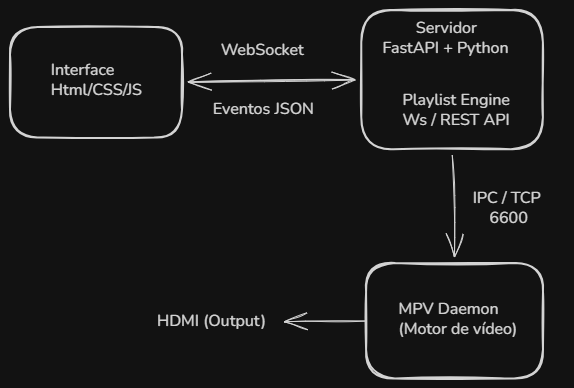
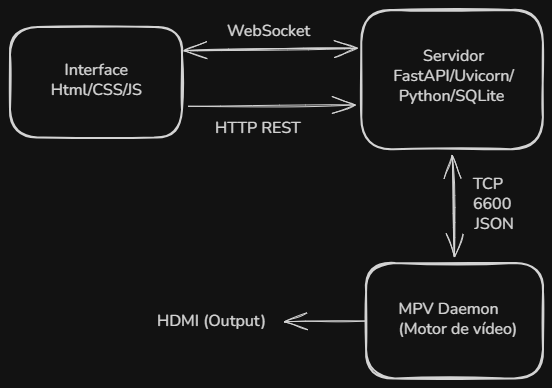
inputs

diff --git a/frontend/components/capture.js b/frontend/components/capture.js
@@ -1,0 +1,76 @@
+(() => {
+  const modal      = document.getElementById("capture-modal");
+  const btnOpen    = document.getElementById("btn-capture-open");
+  const btnClose   = document.getElementById("capture-modal-close");
+  const btnCancel  = document.getElementById("btn-capture-cancel");
+  const btnAdd     = document.getElementById("btn-capture-add");
+  const deviceList = document.getElementById("capture-device-list");
+
+  let selectedDevice = null;
+
+  function openModal() {
+    selectedDevice = null;
+    btnAdd.disabled = true;
+    modal.style.display = "flex";
+    loadDevices();
+  }
+
+  function closeModal() {
+    modal.style.display = "none";
+    selectedDevice = null;
+    btnAdd.disabled = true;
+  }
+
+  async function loadDevices() {
+    deviceList.innerHTML = '<span class="yt-status yt-status-loading">Carregando dispositivos…</span>';
+    try {
+      const res = await fetch("/api/capture-devices");
+      const data = await res.json();
+      renderDevices(data.devices || []);
+    } catch {
+      deviceList.innerHTML = '<span class="yt-status yt-status-error">Erro ao listar dispositivos.</span>';
+    }
+  }
+
+  function renderDevices(devices) {
+    if (!devices.length) {
+      deviceList.innerHTML = '<span class="yt-status yt-status-error">Nenhum dispositivo encontrado.</span>';
+      return;
+    }
+    deviceList.innerHTML = "";
+    devices.forEach(name => {
+      const item = document.createElement("div");
+      item.className = "capture-device-item";
+      item.innerHTML = `<span class="capture-device-icon">📷</span><span>${name}</span>`;
+      item.addEventListener("click", () => {
+        document.querySelectorAll(".capture-device-item").forEach(el => el.classList.remove("selected"));
+        item.classList.add("selected");
+        selectedDevice = name;
+        btnAdd.disabled = false;
+      });
+      deviceList.appendChild(item);
+    });
+  }
+
+  function addToSchedule() {
+    if (!selectedDevice) return;
+    const newItem = {
+      id: "item-" + Date.now(),
+      type: "capture",
+      live: true,
+      title: selectedDevice,
+      path: "av://dshow:video=" + selectedDevice,
+      duration: 0,
+    };
+    state.schedule.push(newItem);
+    renderSchedule();
+    syncOrderToServer();
+    closeModal();
+  }
+
+  btnOpen.addEventListener("click", openModal);
+  btnClose.addEventListener("click", closeModal);
+  btnCancel.addEventListener("click", closeModal);
+  btnAdd.addEventListener("click", addToSchedule);
+  modal.addEventListener("click", e => { if (e.target === modal) closeModal(); });
+})();

diff --git a/frontend/index.html b/frontend/index.html
@@ -282,6 +282,15 @@
         <div class="log" id="log"></div>
       </section>
 
+      <section class="card capture-card" id="capture-card">
+        <div class="log-header">
+          <h2>Entrada de Vídeo</h2>
+          <div class="log-actions">
+            <button id="btn-capture-open">+ Adicionar</button>
+          </div>
+        </div>
+      </section>
+
       <section class="card youtube-card" id="youtube-live-card">
         <div class="log-header">
           <h2>Vídeo/Live do Youtube</h2>
@@ -292,6 +301,28 @@
       </section>
     </div>
   </main>
+
+  <!-- Modal Entrada de Vídeo (placa de captura / webcam) -->
+  <div id="capture-modal" class="yt-modal-backdrop" style="display:none">
+    <div class="yt-modal-box">
+      <div class="yt-modal-header">
+        <h3>Entrada de Vídeo</h3>
+        <button id="capture-modal-close" class="yt-modal-close">✕</button>
+      </div>
+      <div class="yt-modal-body">
+        <div class="yt-field">
+          <label class="yt-label">Dispositivo disponível</label>
+          <div id="capture-device-list" class="capture-device-list">
+            <span class="yt-status yt-status-loading">Carregando dispositivos…</span>
+          </div>
+        </div>
+      </div>
+      <div class="yt-modal-actions">
+        <button id="btn-capture-cancel" class="yt-btn-cancel">Cancelar</button>
+        <button id="btn-capture-add" class="btn-yt-add" disabled>Adicionar ao roteiro</button>
+      </div>
+    </div>
+  </div>
 
   <!-- Modal YouTube Live -->
   <div id="yt-modal" class="yt-modal-backdrop" style="display:none">
@@ -421,6 +452,7 @@
   <script src="/static/app.js"></script>
   <script src="/static/components/preview_ws.js"></script>
   <script src="/static/components/youtube_live.js"></script>
+  <script src="/static/components/capture.js"></script>
   <!-- Preview de live do YouTube -->
   <div id="yt-preview-modal" style="display:none">
     <div class="yt-preview-header">

diff --git a/frontend/styles/log.css b/frontend/styles/log.css
@@ -7,13 +7,57 @@
 }
 
 .bottom-row .log-card,
+.capture-card,
 .youtube-card {
   flex: 1;
   min-width: 0;
 }
 
-/* YouTube card — sempre compacto (só header, igual ao log colapsado) */
+/* Capture / YouTube cards — sempre compactos (só header) */
+.capture-card .log-header,
 .youtube-card .log-header { margin-bottom: 0; }
+
+#btn-capture-open {
+  padding: 4px 12px;
+  border: 1px solid var(--border);
+  border-radius: 6px;
+  background: transparent;
+  color: var(--muted);
+  cursor: pointer;
+  font-size: 12px;
+}
+#btn-capture-open:hover { background: var(--surface2); }
+
+/* ── Lista de dispositivos no modal de captura ── */
+.capture-device-list {
+  display: flex;
+  flex-direction: column;
+  gap: 6px;
+  max-height: 220px;
+  overflow-y: auto;
+}
+
+.capture-device-item {
+  display: flex;
+  align-items: center;
+  gap: 10px;
+  padding: 10px 12px;
+  border: 1px solid var(--border);
+  border-radius: 8px;
+  cursor: pointer;
+  transition: background .15s, border-color .15s;
+  font-size: 13px;
+  color: var(--text);
+}
+.capture-device-item:hover { background: var(--surface2); }
+.capture-device-item.selected {
+  border-color: var(--accent);
+  background: rgba(74,144,226,.08);
+}
+.capture-device-item .capture-device-icon {
+  font-size: 16px;
+  flex-shrink: 0;
+}
 
 #btn-yt-open {
   padding: 4px 12px;

diff --git a/backend/api/routes.py b/backend/api/routes.py
@@ -183,6 +183,10 @@ def _ffmpeg_bin() -> str:
         local = Path(sys._MEIPASS) / "ffmpeg.exe"
         if local.is_file():
             return str(local)
+    # Dev mode: ffmpeg.exe alongside the backend package
+    local_dev = Path(__file__).parent.parent / "ffmpeg.exe"
+    if local_dev.is_file():
+        return str(local_dev)
     return "ffmpeg"
 
 
@@ -476,6 +480,35 @@ async def get_saved_schedule_items(schedule_id: int):
     if items is None:
         raise HTTPException(status_code=404, detail="Roteiro não encontrado")
     return {"items": items}
+
+
+@router.get("/api/capture-devices")
+async def list_capture_devices():
+    """Lista dispositivos de vídeo DirectShow disponíveis (webcams, placas de captura)."""
+    import re
+    ffmpeg = _ffmpeg_bin()
+    logger.info("capture-devices: usando ffmpeg em %r", ffmpeg)
+    try:
+        result = subprocess.run(
+            [ffmpeg, "-list_devices", "true", "-f", "dshow", "-i", "dummy"],
+            capture_output=True, timeout=10,
+            creationflags=_NO_WINDOW,
+        )
+        raw = result.stderr.decode("utf-8", errors="replace")
+        logger.info("capture-devices stderr:\n%s", raw)
+        devices = []
+        for line in raw.splitlines():
+            if "(video)" in line:
+                m = re.search(r'"([^"]+)"', line)
+                if m:
+                    name = m.group(1)
+                    if name not in devices:
+                        devices.append(name)
+        logger.info("capture-devices encontrados: %s", devices)
+        return {"devices": devices}
+    except Exception as exc:
+        logger.warning("capture-devices error: %s", exc)
+        return {"devices": [], "error": str(exc)}
 
 
 @router.delete("/api/library/folder")
